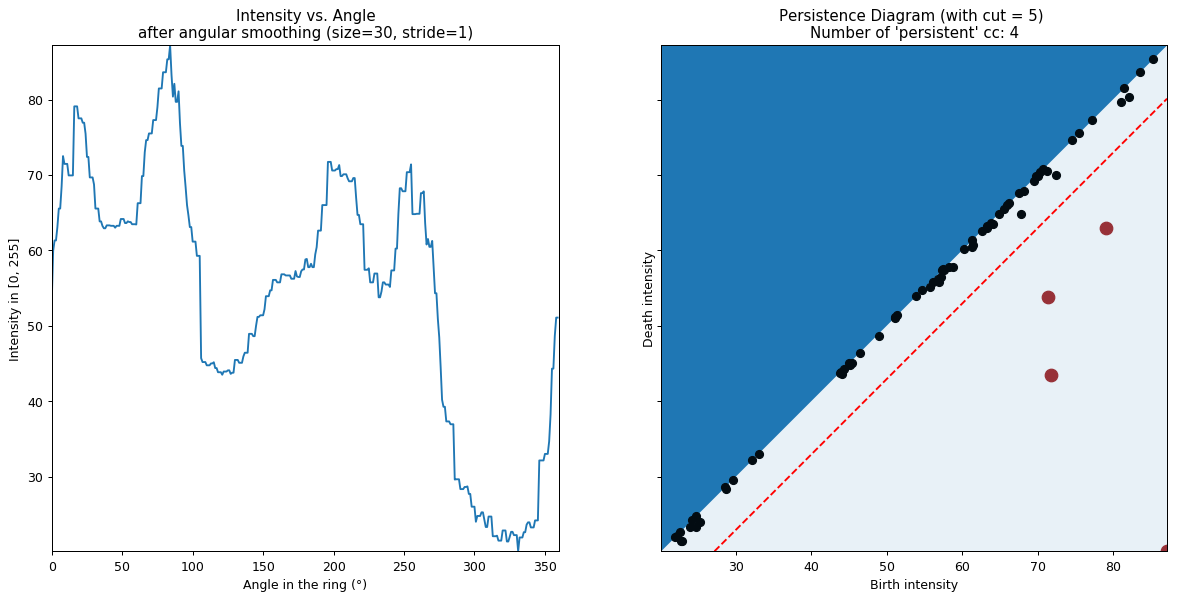
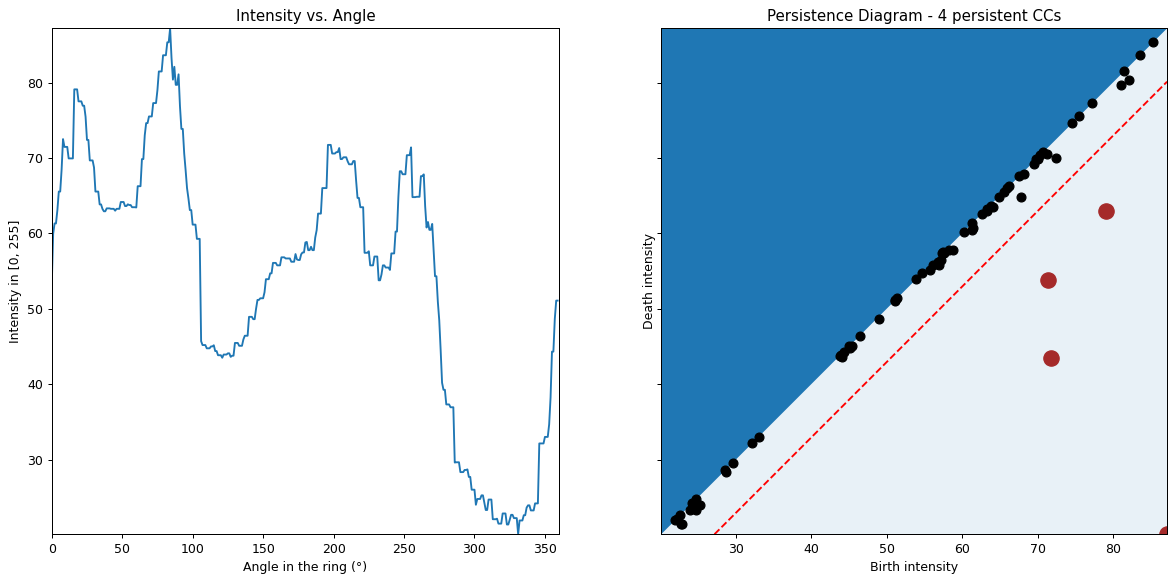
Update code and figures.

diff --git a/utils.py b/utils.py
@@ -320,9 +320,9 @@ def persistence_diagram(ax, barcodes, cut, intensity_of_interest=0):
     ax.add_patch(patches.Rectangle((y_min, y_min), y_max - y_min, y_max - y_min, alpha=0.1))
     ax.fill_between(x=np.arange(y_max, y_min, -0.1), y1=y_max, y2=np.arange(y_max, y_min, -0.1))
     if noise.size > 0:
-        ax.scatter(noise[:, 0], noise[:, 1], c='black', s=40)
+        ax.scatter(noise[:, 0], noise[:, 1], c='black', s=50)
     if peaks.size > 0:
-        ax.scatter(peaks[:, 0], peaks[:, 1], c='brown', s=100)
+        ax.scatter(peaks[:, 0], peaks[:, 1], c='brown', s=150)
     return ax
 
 
@@ -340,17 +340,17 @@ def make_gif(outf, barcodes, cut, bucket2intensity, stride, size_smoothing, inte
         y_max = intensity_of_interest
 
     # import pdb; pdb.set_trace()
-    all = np.array([v for cc, v in barcodes.items()])
-    all = all[all[:, 1].argsort()[::-1]] # sort by decreasing level of birth
+    all_ = np.array([v for cc, v in barcodes.items()])
+    all_ = all_[all_[:, 1].argsort()[::-1]] # sort by decreasing level of birth
 
     angles = np.array(range(0, 360, stride))
 
     # draw the successive persistence diagram
-    with imageio.get_writer(os.path.join(outf, "persistence.gif"), mode='I', duration=0.2) as writer:
-        for i in tqdm(range(len(all))):
+    with imageio.get_writer(os.path.join(outf, "persistence.gif"), mode='I', duration=0.05) as writer:
+        for i in tqdm(range(len(all_))):
             fig, (ax1, ax2) = plt.subplots(1, 2, sharey=True, figsize=(16, 7.3))
 
-            current_intensity = all[i, 1]
+            current_intensity = all_[i, 1]
 
             # intensity relief in the ring
             # ax1.plot(angles[bucket2intensity >= current_intensity], bucket2intensity[bucket2intensity >= current_intensity])
@@ -359,7 +359,6 @@ def make_gif(outf, barcodes, cut, bucket2intensity, stride, size_smoothing, inte
             ax1.add_patch(patches.Rectangle((0, y_min), 360, current_intensity - y_min, alpha=0.7))
             ax1.set_xlabel("Angle in the ring (°)")
             ax1.set_ylabel("Intensity in [0, 255]")
-            ax1.set_title("Intensity vs. Angle\nafter angular smoothing (size={}, stride={})".format(size_smoothing, stride))
 
             # persistence diagram
             ax2.set_aspect('equal')
@@ -368,9 +367,22 @@ def make_gif(outf, barcodes, cut, bucket2intensity, stride, size_smoothing, inte
             ax2.plot([y_min + np.sqrt(2) * cut, y_max], [y_min, y_max - np.sqrt(2) * cut], 'r--')
             ax2.add_patch(patches.Rectangle((y_min, y_min), y_max - y_min, y_max - y_min, alpha=0.1))
             ax2.fill_between(x=np.arange(y_max, y_min, -0.1), y1=y_max, y2=np.arange(y_max, y_min, -0.1))
-            ax2.scatter(all[:i+1, 0], all[:i+1, 1], c='black', s=40)
+            
+            peaks_ = np.array([x for x in all_[:i + 1] if x in peaks])
+            noise_ = np.array([x for x in all_[:i + 1] if x in noise])
+            #import pdb; pdb.set_trace()
+            #ax2.scatter(toplot[:, 0], toplot[:i+1, 1], c='black', s=40)
+            if len(peaks_) > 0:
+                ax2.scatter(peaks_[:, 0], peaks_[:, 1], c='brown', s=150)
+            if len(noise_) > 0:
+                ax2.scatter(noise_[:, 0], noise_[:, 1], c='black', s=50)
             ax2.set_xlabel("Birth intensity")
             ax2.set_ylabel("Death intensity")
+
+            if i == len(all_) - 1:
+                for p in peaks_:
+                    circle = plt.Circle((p[0], p[1]), 5, color='b', fill=False)
+                    ax2.add_patch(circle)
 
             fig.canvas.draw()
             img = np.fromstring(fig.canvas.tostring_rgb(), dtype=np.uint8, sep='')
@@ -378,7 +390,7 @@ def make_gif(outf, barcodes, cut, bucket2intensity, stride, size_smoothing, inte
             writer.append_data(img)
             plt.close()
 
-        for _ in range(10):
+        for _ in range(60):
             writer.append_data(img)
 
     return

diff --git a/main.py b/main.py
@@ -138,7 +138,7 @@ def main():
     # image with superimposed ring
     img_with_ring = superimpose_ring(im.img, ring, mask)
     fig, ax = plot_img(img_with_ring, title="Center : ({:.2f}, {:.2f}) \n Radius : ({:.2f}, {:.2f})".format(ring["center"][0], ring["center"][1], ring["radius"][0], ring["radius"][1]))
-    fig.savefig(os.path.join(args.outf, "2_ring.png"))
+    fig.savefig(os.path.join(args.outf, "2_ring.png"), bbox_inches="tight")
 
 
     #********************** STEP 2 **********************#
@@ -192,11 +192,11 @@ def main():
     ax1.set_xlim(0, 360)
     ax1.set_xlabel("Angle in the ring (°)")
     ax1.set_ylabel("Intensity in [0, 255]")
-    ax1.set_title("Intensity vs. Angle\nafter angular smoothing (size={}, stride={})".format(args.size_smoothing, args.stride_smoothing))
+    ax1.set_title("Intensity vs. Angle")
 
     # corresponding persistence diagram
     ax2 = persistence_diagram(ax2, barcodes, min_lifetime, intensity_of_interest)
-    ax2.set_title("Persistence Diagram (with cut = {}) \nNumber of 'persistent' cc: {}".format(min_lifetime, n_peaks))
+    ax2.set_title(f"Persistence Diagram - {n_peaks} persistent CCs")
     ax2.set_xlabel("Birth intensity")
     ax2.set_ylabel("Death intensity")
     fig.savefig(os.path.join(args.outf, "3_persistence_diagram.png"), dpi=90, bbox_inches='tight')
